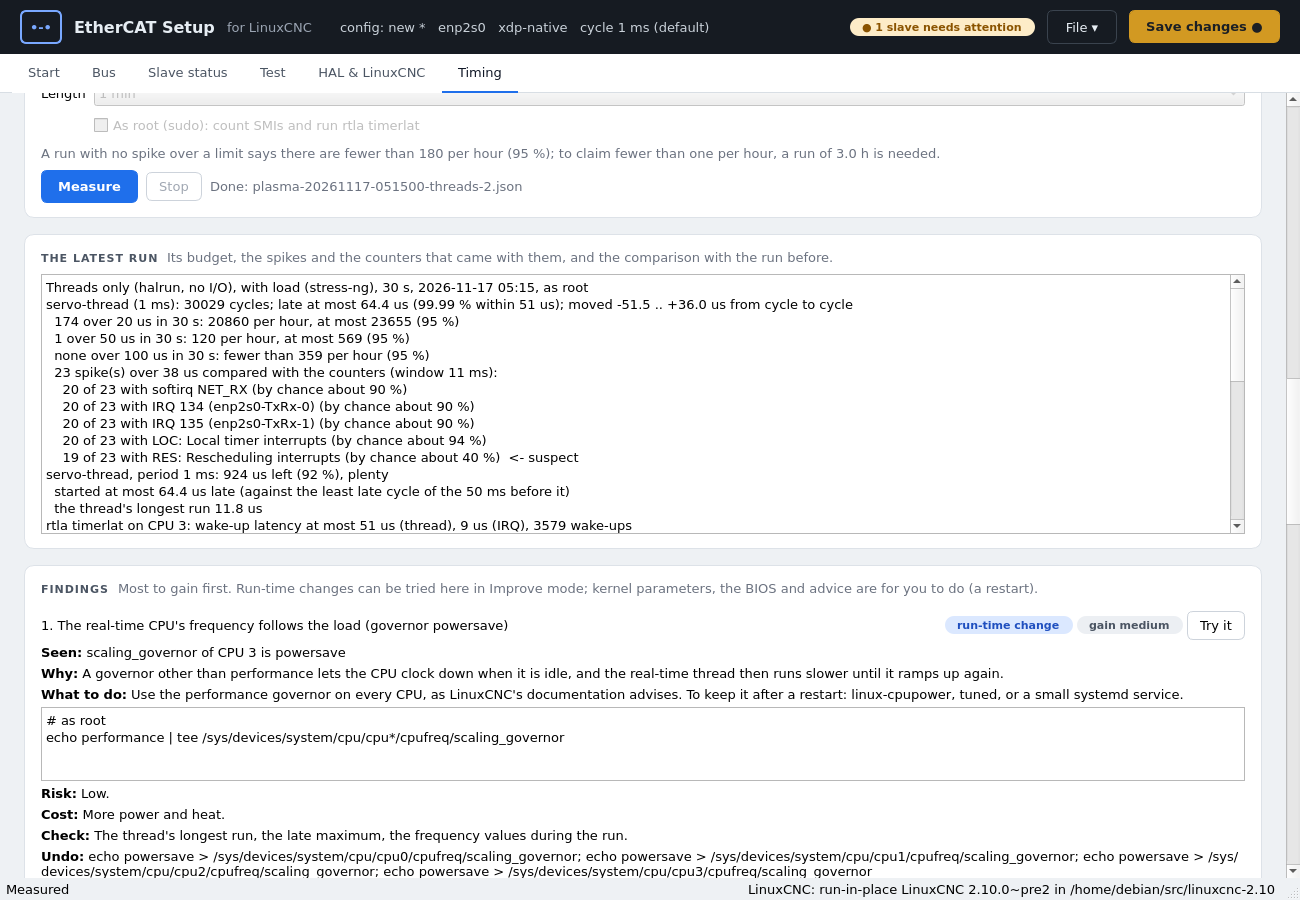
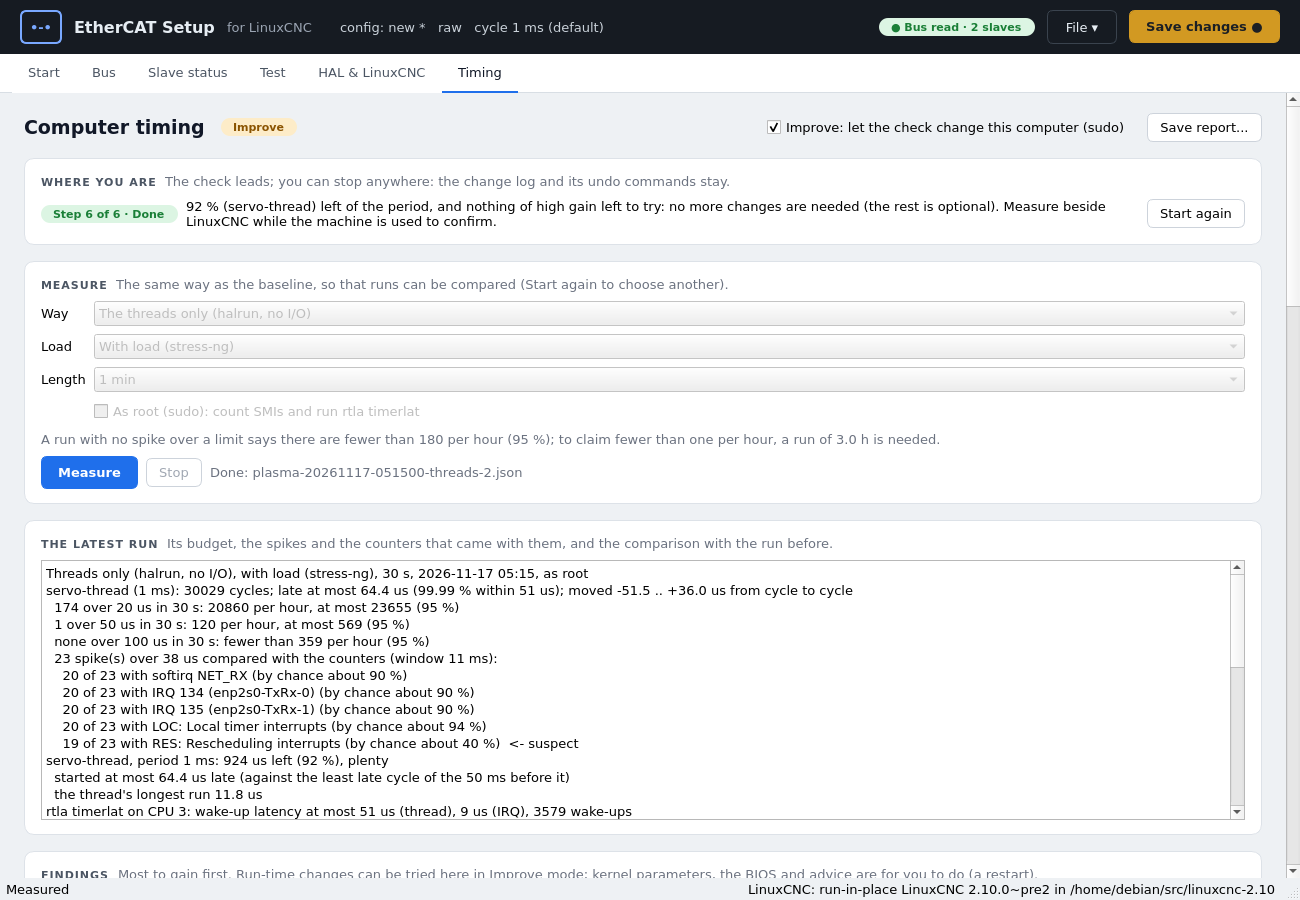
Timing tab: Measure and the latest run first, Try it always shown
From the user's first try on a real screen: the inventory table took the
top of the page and Measure had to be scrolled to; the finding's kind and
gain looked like buttons (pills) and pressing them did nothing; Try it was
hidden in Look mode. Now Measure and the latest run come right after
"Where you are", the computer is one summary line at the bottom with Show
all, kind and gain are plain text, and Try it is shown on every run-time
change, greyed out with a tooltip in Look mode. The step pill was never
shown (set without set_pill).

diff --git a/ecatsetup/gui.py b/ecatsetup/gui.py
@@ -5954,11 +5954,10 @@ class FindingView(QFrame):
         lay.setSpacing(4)
         head = QHBoxLayout()
         head.addWidget(label("%d. %s" % (n, f.title), "rowTitle"), 1)
-        kind = {"runtime": ("run-time change", "blue"), "permanent": ("needs a restart", "amber"),
-                "bios": ("BIOS", "grey"), "advice": ("advice", "grey"), "measure": ("measure", "blue")}
-        text, colour = kind.get(f.kind, (f.kind, "grey"))
-        head.addWidget(pill(text, colour))
-        head.addWidget(pill("gain " + f.gain, "green" if f.gain == "high" else "grey"))
+        kind = {"runtime": "run-time change", "permanent": "needs a restart", "bios": "in the BIOS",
+                "advice": "advice", "measure": "measure again"}
+        # plain text, not pills: they looked like buttons
+        head.addWidget(label("%s · gain %s" % (kind.get(f.kind, f.kind), f.gain), "hint"))
         self.try_button = QPushButton("Try it")
         self.try_button.setToolTip("Run the command(s) below as root now (sudo), and measure "
                                    "again the same way to see what it did. Undo is one press.")
@@ -6059,19 +6058,6 @@ class TimingPage(QWidget):
         self.step_card.add(srow)
         lay.addWidget(self.step_card)
 
-        # the computer
-        self.inv_card = Card("The computer", "What it is, each fact with where it was read (the "
-                             "tooltip). A fact matters only when a finding says so.")
-        self.inv_table = table(["", "Value"], stretch=1)
-        self.inv_card.add(self.inv_table)
-        irow = QHBoxLayout()
-        self.read_button = QPushButton("Read the computer")
-        self.read_button.clicked.connect(self.read_computer)
-        irow.addWidget(self.read_button)
-        irow.addStretch(1)
-        self.inv_card.add(irow)
-        lay.addWidget(self.inv_card)
-
         # measure
         self.measure_card = Card("Measure", "How late the real-time threads start, every cycle, "
                                  "and what comes with the late ones.")
@@ -6136,6 +6122,26 @@ class TimingPage(QWidget):
         crow.addStretch(1)
         self.change_card.add(crow)
         lay.addWidget(self.change_card)
+
+        # the computer: one line, the whole table on request
+        self.inv_card = Card("The computer", "What it is, each fact with where it was read (the "
+                             "tooltip). A fact matters only when a finding says so.")
+        irow = QHBoxLayout()
+        self.inv_summary = label("", wrap=True)
+        irow.addWidget(self.inv_summary, 1)
+        self.inv_toggle = QPushButton("Show all")
+        self.inv_toggle.setCheckable(True)
+        self.inv_toggle.toggled.connect(self.show_inventory)
+        irow.addWidget(self.inv_toggle)
+        self.read_button = QPushButton("Read again")
+        self.read_button.setToolTip("Read what the computer is again (after a change made elsewhere).")
+        self.read_button.clicked.connect(self.read_computer)
+        irow.addWidget(self.read_button)
+        self.inv_card.add(irow)
+        self.inv_table = table(["", "Value"], stretch=1)
+        self.inv_card.add(self.inv_table)
+        self.inv_table.hide()
+        lay.addWidget(self.inv_card)
         lay.addStretch(1)
         self.finding_views = []
         self.show_bound()
@@ -6188,7 +6194,8 @@ class TimingPage(QWidget):
         set_pill(self.mode, self.mode.text(), "amber" if self.improve.isChecked() else "grey")
 
         step, text = f.step()
-        self.step_pill.setText("Step %d of %d · %s" % (step + 1, len(rtflow.STEPS), rtflow.STEPS[step]))
+        set_pill(self.step_pill, "Step %d of %d · %s" % (step + 1, len(rtflow.STEPS), rtflow.STEPS[step]),
+                 "green" if step == 5 else "blue")
         self.step_text.setText(text)
         ch = f.log.find(f.pending) if f.pending else None
         self.keep_button.setVisible(ch is not None)
@@ -6205,6 +6212,20 @@ class TimingPage(QWidget):
             self.inv_table.setItem(r, 0, item(fact.label, tip=fact.source))
             self.inv_table.setItem(r, 1, item(fact.value, tip=fact.source))
         fit_table(self.inv_table)
+        if inv is None:
+            self.inv_summary.setText("Not read yet.")
+        else:
+            def v(key):
+                x = inv.fact(key)
+                return x.value if x else "?"
+            parts = [v("cpu_model"), "kernel %s%s" % (v("kernel"), ", PREEMPT_RT" if inv.data.get("preempt_rt")
+                                                       else ", not PREEMPT_RT"),
+                     "isolated CPU %s" % v("isolated")]
+            if inv.fact("threads"):
+                parts.append(v("threads"))
+            if inv.fact("io"):
+                parts.append("I/O " + v("io"))
+            self.inv_summary.setText(" · ".join(parts))
 
         latest = f.run(f.latest) if f.latest else None
         text = latest.text() if latest else "No run yet."
@@ -6224,8 +6245,14 @@ class TimingPage(QWidget):
         found, ctx = self.flow.findings()
         for n, fd in enumerate(found, 1):
             v = FindingView(self, fd, n)
-            v.try_button.setVisible(self.improve.isChecked() and fd.kind == "runtime" and bool(fd.commands))
-            v.try_button.setEnabled(self.flow.tryable(fd) and self.worker is None)
+            v.try_button.setVisible(fd.kind == "runtime" and bool(fd.commands))
+            v.try_button.setEnabled(self.improve.isChecked() and self.flow.tryable(fd) and self.worker is None)
+            if not self.improve.isChecked():
+                v.try_button.setToolTip("Tick Improve at the top first: then this runs the command(s) "
+                                        "below as root, and you measure again to see what it did.")
+            elif not self.flow.tryable(fd):
+                v.try_button.setToolTip("One change at a time: keep or undo the change being tried "
+                                        "first (or this one is in force already).")
             self.find_box.addWidget(v)
             self.finding_views.append(v)
         if not found:
@@ -6256,6 +6283,10 @@ class TimingPage(QWidget):
             "what is still in force, newest first (read it, then sudo sh it)." % (
                 rtflow.changes_path(), rtflow.undo_script_path()))
         self.undo_selected.setEnabled(self.worker is None and any(c.in_force for c in log.changes))
+
+    def show_inventory(self, on):
+        self.inv_table.setVisible(on)
+        self.inv_toggle.setText("Hide" if on else "Show all")
 
     # -- actions
 

diff --git a/tests/test_gui.py b/tests/test_gui.py
@@ -1993,6 +1993,7 @@ class TestTimingPage(WindowBase):
         tp = self.page(w)
         tp.refresh()
         self.assertIn("Baseline", tp.step_pill.text())
+        self.assertTrue(tp.step_pill.isVisibleTo(tp))
         self.assertGreater(tp.inv_table.rowCount(), 10)
         self.assertTrue(tp.measure_button.isEnabled())
         self.assertFalse(tp.root.isEnabled())               # sudo would ask for a password
@@ -2004,13 +2005,21 @@ class TestTimingPage(WindowBase):
         self.assertIn("late at most", tp.result.toPlainText())
         titles = [v.f.title for v in tp.finding_views]
         self.assertTrue(any("Turbo" in t for t in titles))
-        # Look mode: no Try buttons; Improve (after a yes): Try on run-time changes
-        self.assertFalse(any(v.try_button.isVisibleTo(tp) for v in tp.finding_views))
+        # Look mode: Try shown on run-time changes but not pressable; Improve (after a yes): pressable
+        tries = [v.try_button for v in tp.finding_views if v.try_button.isVisibleTo(tp)]
+        self.assertTrue(tries)
+        self.assertFalse(any(b.isEnabled() for b in tries))
+        self.assertIn("Tick Improve", tries[0].toolTip())
+        # the computer is one line; the table on request
+        self.assertFalse(tp.inv_table.isVisibleTo(tp))
+        self.assertIn("Intel(R) N100", tp.inv_summary.text())
+        tp.inv_toggle.click()
+        self.assertTrue(tp.inv_table.isVisibleTo(tp))
         with mock.patch.object(gui.QMessageBox, "question", return_value=gui.QMessageBox.Yes):
             tp.improve.setChecked(True)
         self.assertEqual(tp.mode.text(), "Improve")
         turbo = next(v for v in tp.finding_views if "Turbo" in v.f.title)
-        self.assertTrue(turbo.try_button.isVisibleTo(tp))
+        self.assertTrue(turbo.try_button.isEnabled())
         calls = []
         with mock.patch.object(rtflow, "sudo", lambda cmd, runner=None: calls.append(cmd) or ""):
             turbo.try_button.click()

diff --git a/docs/ecatsetup.md b/docs/ecatsetup.md
@@ -1960,10 +1960,11 @@ the top (*Where you are*), and says when it is done.
 
 ![The Timing tab after two baseline runs, in Improve mode](images/gui-timing.png)
 
-1. **The computer.** Read when the tab is first shown: the kernel, isolated
-   CPUs, frequency, idle states, where every interrupt goes, the network
-   cards, the graphics, the BIOS, the INI's threads and the I/O. Hover over
-   a value to see where it was read. Choose the machine's INI file first
+1. **The computer.** Read when the tab is first shown, and summed up in one
+   line at the bottom of the page (*The computer*); *Show all* lists every
+   fact: the kernel, isolated CPUs, frequency, idle states, where every
+   interrupt goes, the network cards, the graphics, the BIOS, the INI's
+   threads and the I/O. Hover over a value to see where it was read. Choose the machine's INI file first
    (File > Machine INI file...) so that its threads and I/O are known.
 2. **Baseline: measure twice the same way.** *Way*: beside LinuxCNC while it
    runs (offered first then: run the machine as usual meanwhile; nothing that
@@ -1982,7 +1983,7 @@ the top (*Where you are*), and says when it is done.
    computers. A late cycle that came with a counter no rule knows is listed
    as such.
 4. **One change.** Tick *Improve* (it asks first) and press *Try it* on a
-   run-time change: its commands run as root with sudo and the change is
+   run-time change (in Look mode the button is there but greyed out): its commands run as root with sudo and the change is
    logged. If sudo needs a password, the window shows the commands for a
    terminal and you press *I ran it* when done. Kernel parameters, the BIOS
    and advice are for you to do (a restart).
